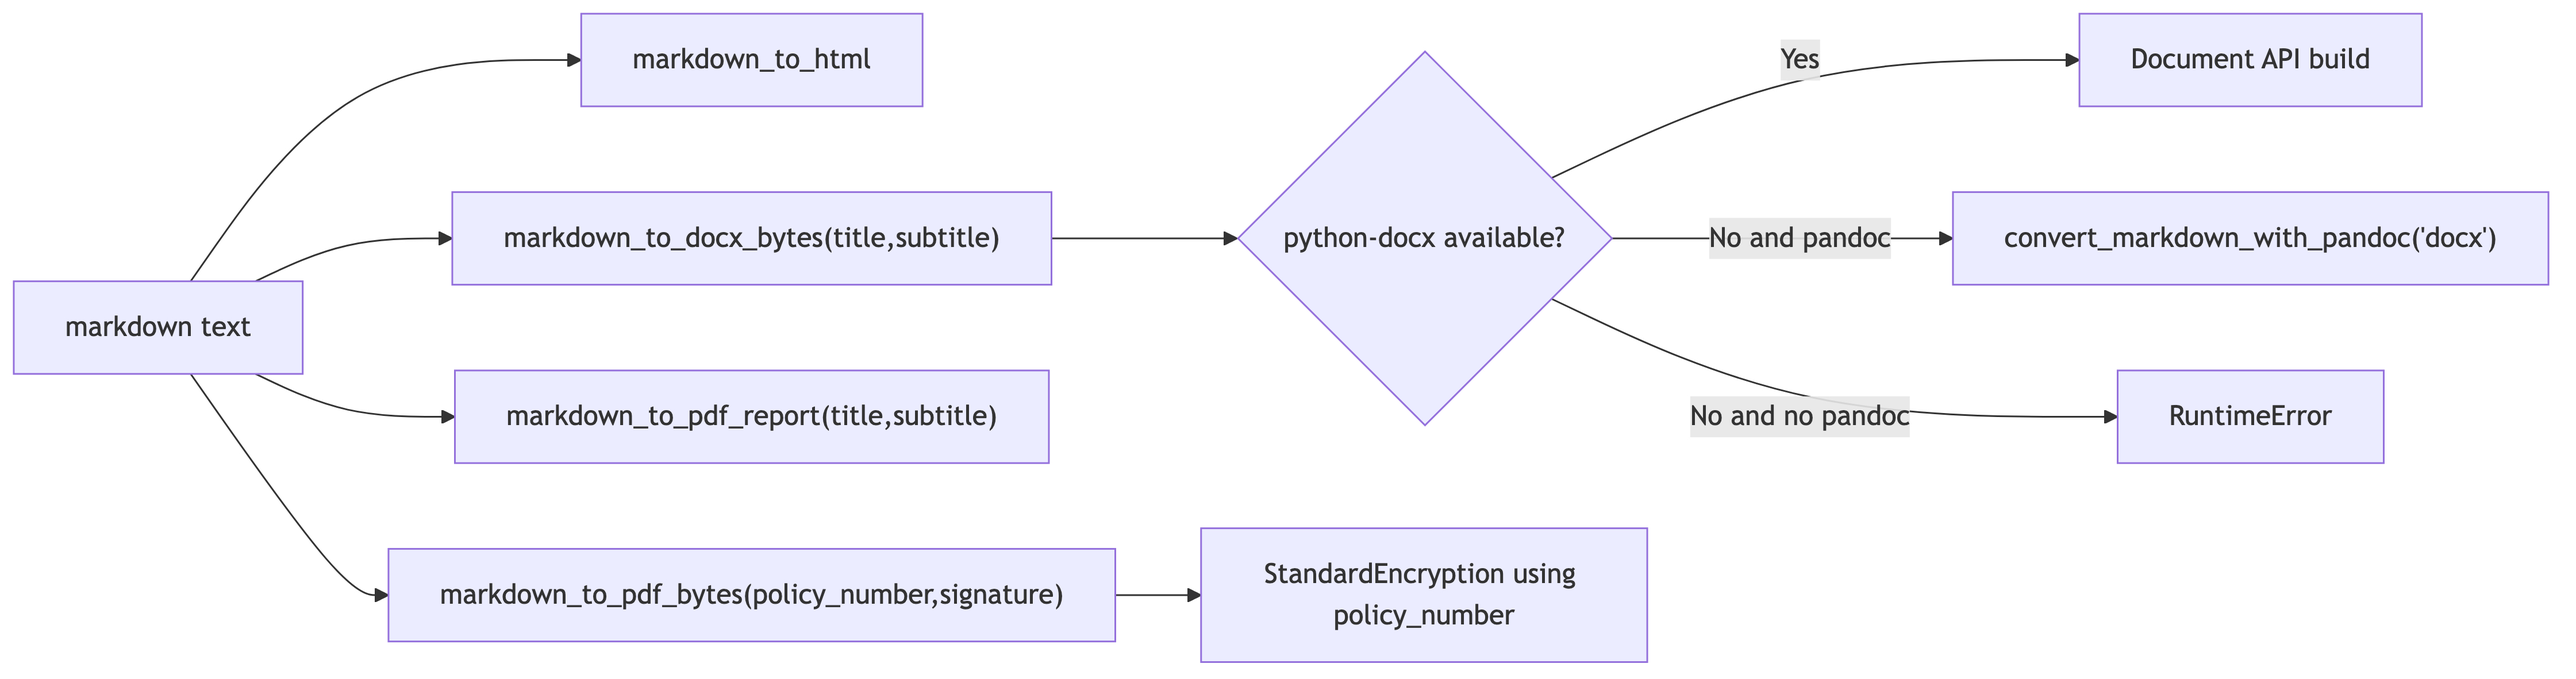
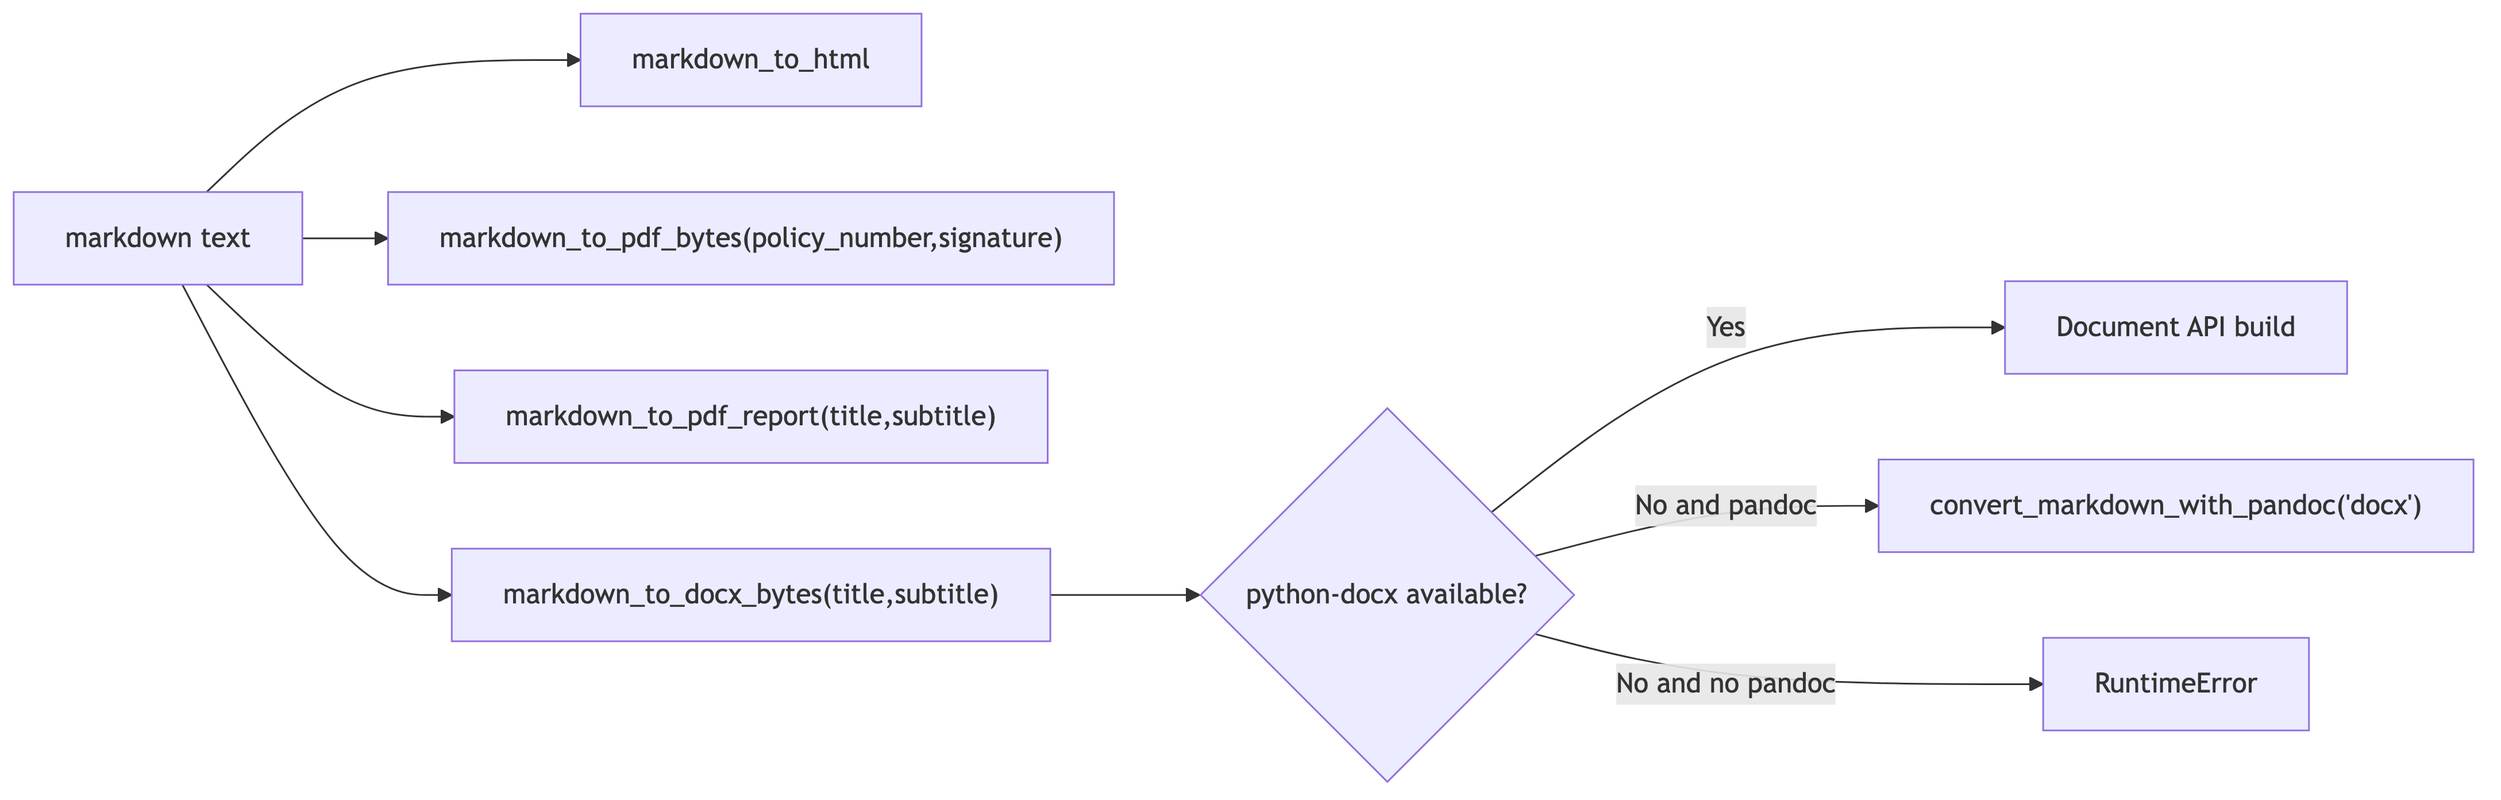
Remove unused encryption paths and simplify policy persistence/export

diff --git a/policy_engine/storage.py b/policy_engine/storage.py
@@ -1,15 +1,12 @@
 """
-EL: Storage helpers για hash/signature και optional encryption-at-rest.
-EN: Storage helpers for hash/signature and optional encryption-at-rest.
+EL: Storage helpers για hash/signature και απλή αποθήκευση policy markdown.
+EN: Storage helpers for hash/signature and plain policy markdown persistence.
 """
 
 from __future__ import annotations
 
 import hashlib
 from pathlib import Path
-
-from .config import ENCRYPTION_KEY
-
 
 def hash_text(text: str) -> str:
     """
@@ -20,36 +17,21 @@ def hash_text(text: str) -> str:
     return hashlib.sha256(text.encode("utf-8")).hexdigest()
 
 
-def _crypt_bytes(payload: bytes) -> bytes:
+def write_policy_text(path: Path, text: str) -> None:
     """
-    EL: Ελαφρύ XOR obfuscation όταν υπάρχει encryption key (best-effort).
-    EN: Lightweight XOR obfuscation when an encryption key is configured.
-    """
-
-    if not ENCRYPTION_KEY:
-        return payload
-    key = ENCRYPTION_KEY
-    return bytes(byte ^ key[i % len(key)] for i, byte in enumerate(payload))
-
-
-def write_secure_text(path: Path, text: str) -> None:
-    """
-    EL: Γράφει text στο disk με newline normalization και optional obfuscation.
-    EN: Writes text to disk with newline normalization and optional obfuscation.
+    EL: Γράφει markdown text στο disk με σταθερό newline normalization.
+    EN: Writes markdown text to disk with stable newline normalization.
     """
 
     data = text if text.endswith("\n") else f"{text}\n"
-    payload = _crypt_bytes(data.encode("utf-8"))
     path.parent.mkdir(parents=True, exist_ok=True)
-    path.write_bytes(payload)
+    path.write_text(data, encoding="utf-8")
 
 
-def read_secure_text(path: Path) -> str:
+def read_policy_text(path: Path) -> str:
     """
-    EL: Διαβάζει secure text και κάνει reversible αποκωδικοποίηση όταν χρειάζεται.
-    EN: Reads secure text and performs reversible decoding when required.
+    EL: Διαβάζει persisted markdown text από το disk.
+    EN: Reads persisted markdown text from disk.
     """
 
-    payload = path.read_bytes()
-    decoded = _crypt_bytes(payload)
-    return decoded.decode("utf-8")
+    return path.read_text(encoding="utf-8")

diff --git a/policy_engine/official_policy.py b/policy_engine/official_policy.py
@@ -22,7 +22,7 @@ from llm import run_ollama
 from .config import LAST_UPDATED_PATTERN, MODEL_NAME, OFFICIAL_POLICY_DIR, PANDOC_PATH, PROMPT_DIR
 from .context import build_llm_context
 from .rendering import convert_markdown_with_pandoc, markdown_to_html, markdown_to_pdf_bytes
-from .storage import hash_text, read_secure_text, write_secure_text
+from .storage import hash_text, read_policy_text, write_policy_text
 from .text_quality import has_forbidden_legal_artifacts, quality_rewrite_instruction, sanitize_generated_legal_text
 
 OFFICIAL_POLICY_PROMPTS: "OrderedDict[str, Dict[str, str]]" = OrderedDict(
@@ -140,7 +140,7 @@ def save_official_policy(markdown_text: str, sections: List[Dict[str, str]], con
     run_dir.mkdir(parents=True, exist_ok=False)
 
     policy_path = run_dir / "policy.md"
-    write_secure_text(policy_path, markdown_text)
+    write_policy_text(policy_path, markdown_text)
 
     html_path = run_dir / "policy.html"
     html_body = markdown_to_html(markdown_text)
@@ -194,8 +194,8 @@ def create_official_policy(
 
 def load_official_policy(run_id: str | None) -> Dict[str, Any] | None:
     """
-    EL: Φορτώνει saved policy metadata και αποκρυπτογραφεί markdown όπου απαιτείται.
-    EN: Loads saved policy metadata and decodes markdown when required.
+    EL: Φορτώνει saved policy metadata και το persisted markdown.
+    EN: Loads saved policy metadata and the persisted markdown.
     """
 
     if not run_id:
@@ -211,7 +211,7 @@ def load_official_policy(run_id: str | None) -> Dict[str, Any] | None:
         return None
 
     metadata = json.loads(meta_path.read_text(encoding="utf-8"))
-    metadata["markdown"] = read_secure_text(policy_path)
+    metadata["markdown"] = read_policy_text(policy_path)
     metadata.setdefault("paths", {})
     metadata["paths"]["markdown"] = str(policy_path)
     metadata["paths"]["pdf"] = str(pdf_path) if pdf_path.exists() else metadata["paths"].get("pdf")

diff --git a/policy_engine/config.py b/policy_engine/config.py
@@ -11,7 +11,6 @@ come from a typed PolicyEngineConfig for better clarity and testability.
 
 from __future__ import annotations
 
-import hashlib
 import os
 import re
 import shutil
@@ -22,8 +21,8 @@ from pathlib import Path
 @dataclass(frozen=True)
 class PolicyEngineConfig:
     """
-    EL: Immutable configuration object για prompts, output και encryption.
-    EN: Immutable configuration object for prompts, output, and encryption.
+    EL: Immutable configuration object για prompts, output και rendering dependencies.
+    EN: Immutable configuration object for prompts, output, and rendering dependencies.
     """
 
     model_name: str
@@ -31,14 +30,6 @@ class PolicyEngineConfig:
     official_policy_dir: Path
     pandoc_path: str | None
     last_updated_pattern: re.Pattern[str]
-    encryption_key: bytes | None
-
-
-def _resolve_encryption_key() -> bytes | None:
-    secret = os.environ.get("POLICY_ENCRYPTION_KEY")
-    if not secret:
-        return None
-    return hashlib.sha256(secret.encode("utf-8")).digest()
 
 
 def load_policy_engine_config() -> PolicyEngineConfig:
@@ -58,7 +49,6 @@ def load_policy_engine_config() -> PolicyEngineConfig:
         official_policy_dir=official_policy_dir,
         pandoc_path=shutil.which("pandoc"),
         last_updated_pattern=re.compile(r"Last updated:\s*\d{4}-\d{2}-\d{2}", re.IGNORECASE),
-        encryption_key=_resolve_encryption_key(),
     )
 
 
@@ -70,4 +60,3 @@ PROMPT_DIR = _CONFIG.prompt_dir
 OFFICIAL_POLICY_DIR = _CONFIG.official_policy_dir
 PANDOC_PATH = _CONFIG.pandoc_path
 LAST_UPDATED_PATTERN = _CONFIG.last_updated_pattern
-ENCRYPTION_KEY = _CONFIG.encryption_key

diff --git a/policy_engine/rendering.py b/policy_engine/rendering.py
@@ -15,7 +15,6 @@ from reportlab.lib.pagesizes import letter
 from reportlab.lib.styles import ParagraphStyle, getSampleStyleSheet
 from reportlab.pdfgen import canvas
 from reportlab.platypus import Paragraph, SimpleDocTemplate, Spacer
-from reportlab.lib.pdfencrypt import StandardEncryption
 
 from .config import PANDOC_PATH
 
@@ -100,8 +99,8 @@ def markdown_to_html(md_text: str) -> str:
 
 def markdown_to_pdf_bytes(markdown_text: str, policy_number: str, signature: str) -> bytes:
     """
-    EL: Δημιουργεί signed policy PDF με header/watermark και encryption.
-    EN: Builds a signed policy PDF with header/watermark and encryption.
+    EL: Δημιουργεί signed policy PDF με header και watermark.
+    EN: Builds a signed policy PDF with header and watermark.
     """
 
     buffer = BytesIO()
@@ -189,18 +188,11 @@ def markdown_to_pdf_bytes(markdown_text: str, policy_number: str, signature: str
         canvas_obj.restoreState()
         canvas_obj.restoreState()
 
-    class SecureCanvas(canvas.Canvas):
-        def __init__(self, *args, **kwargs):
-            password = kwargs.pop("password", None)
-            if password:
-                kwargs["encrypt"] = StandardEncryption(password, ownerPassword=password)
-            super().__init__(*args, **kwargs)
-
     doc.build(
         elements,
         onFirstPage=_header,
         onLaterPages=_header,
-        canvasmaker=lambda *args, **kwargs: SecureCanvas(*args, password=policy_number, **kwargs),
+        canvasmaker=canvas.Canvas,
     )
     buffer.seek(0)
     return buffer.read()

diff --git a/README.md b/README.md
@@ -22,8 +22,6 @@
 ## Security Notes / Σημειώσεις Ασφαλείας
 - EN: Configure `APP_SECRET_KEY`, `PLATFORM_USERNAME`, and `PLATFORM_PASSWORD` in production.
 - EL: Ορίστε `APP_SECRET_KEY`, `PLATFORM_USERNAME`, `PLATFORM_PASSWORD` σε production περιβάλλον.
-- EN: Optional `POLICY_ENCRYPTION_KEY` enables encrypted-at-rest policy markdown storage.
-- EL: Προαιρετικό `POLICY_ENCRYPTION_KEY` ενεργοποιεί encrypted-at-rest αποθήκευση markdown policy.
 
 ## Local Run / Τοπική Εκτέλεση
 ```bash
@@ -45,5 +43,4 @@ pytest
 - `REPORT_ACCESS_TOKEN`
 - `SESSION_RUNTIME_TTL_SECONDS`
 - `POLICY_ENGINE_MODEL`
-- `POLICY_ENCRYPTION_KEY`
 - `OLLAMA_URL`

diff --git a/docs/architecture-diagrams/08-config-validation.md b/docs/architecture-diagrams/08-config-validation.md
@@ -21,9 +21,7 @@ flowchart TD
   C2 --> C3[PlatformConfig(secret,user,pass,token,ttl)]
 
   C4[load_policy_engine_config] --> C5[ensure output directories]
-  C4 --> C6[_resolve_encryption_key]
-  C6 --> C7[sha256(secret) bytes or None]
-  C5 --> C8[PolicyEngineConfig(model,prompts,official_dir,pandoc,regex,key)]
+  C5 --> C8[PolicyEngineConfig(model,prompts,official_dir,pandoc,regex)]
 
   V1[validate_transfers(ctx,md_text)] --> V2[_detect_non_eea_transfers]
   V2 --> V3{outside EEA and no SCC phrase?}

diff --git a/docs/architecture-diagrams/06-rendering-export-pipeline.md b/docs/architecture-diagrams/06-rendering-export-pipeline.md
@@ -12,8 +12,6 @@ flowchart LR
   C1 -->|Yes| C2[Document API build]
   C1 -->|No and pandoc| C3[convert_markdown_with_pandoc('docx')]
   C1 -->|No and no pandoc| C4[RuntimeError]
-
-  P1 --> SEC[StandardEncryption using policy_number]
 ```
 
 ## B) Function-Level Execution Flow

diff --git a/docs/architecture-diagrams/07-runtime-state-persistence.md b/docs/architecture-diagrams/07-runtime-state-persistence.md
@@ -16,9 +16,8 @@ flowchart LR
 
   subgraph StorageHelpers[policy_engine/storage.py]
     H1[hash_text]
-    H2[write_secure_text]
-    H3[read_secure_text]
-    H4[_crypt_bytes optional XOR with ENCRYPTION_KEY]
+    H2[write_policy_text]
+    H3[read_policy_text]
   end
 ```
 
